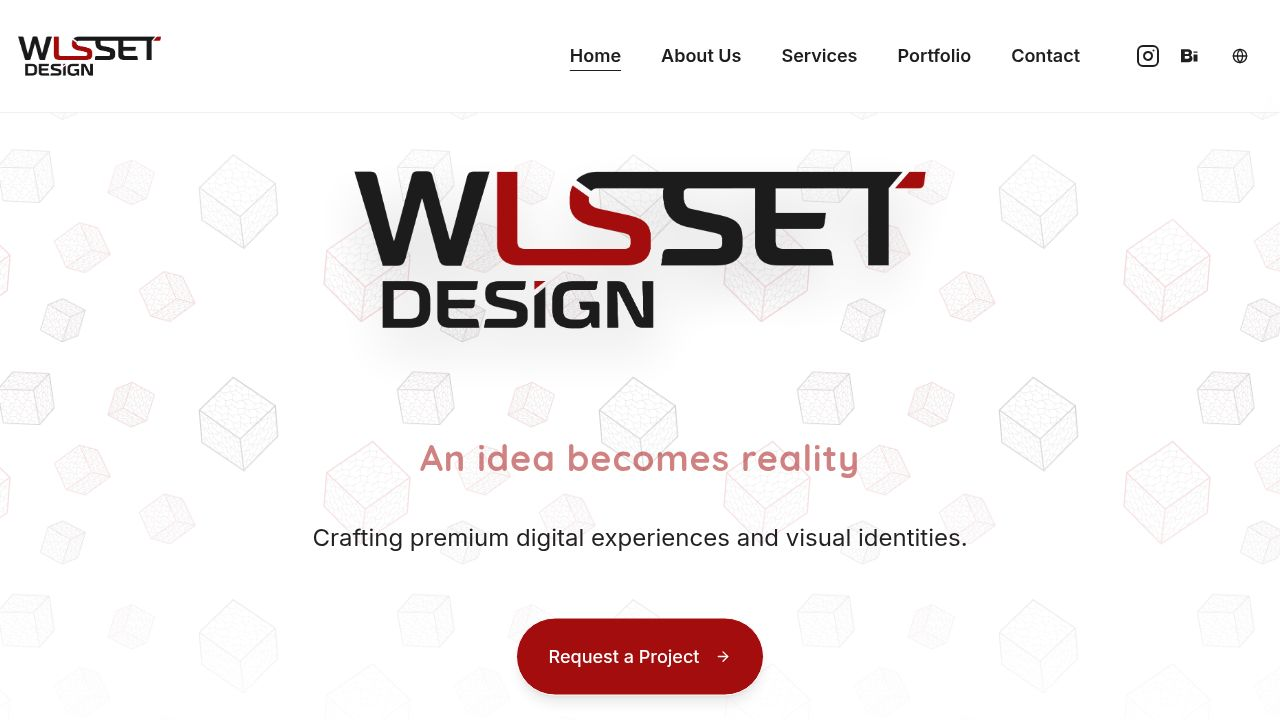
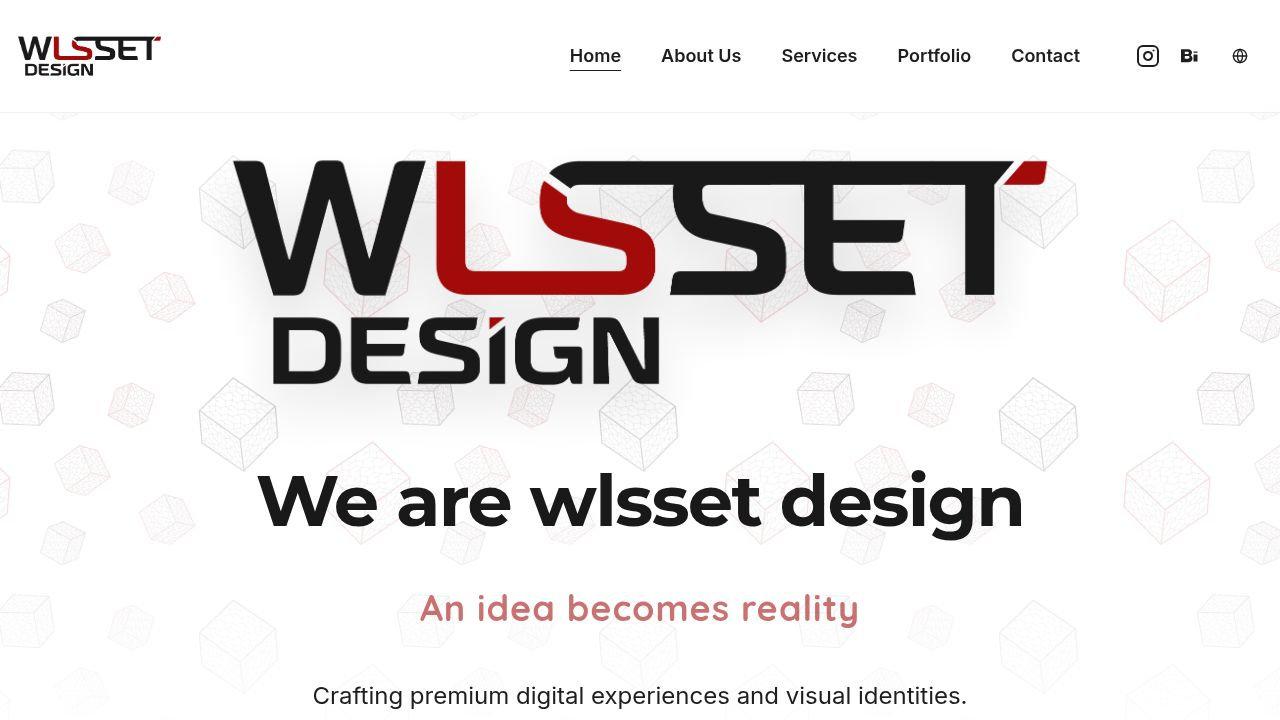
Restored to 'ae337555cfb157df147e13d18683ea3abdfc3750'
Replit-Restored-To: ae337555cfb157df147e13d18683ea3abdfc3750

Changed region(s): [[0.1562, 0.2139, 0.8438, 0.55], [0.1875, 0.6111, 0.8125, 0.7639], [0.25, 0.825, 0.75, 0.9778]]

diff --git a/client/src/App.tsx b/client/src/App.tsx
@@ -1,12 +1,10 @@
-import { Switch, Route, useLocation } from "wouter";
+import { Switch, Route } from "wouter";
 import { queryClient } from "./lib/queryClient";
 import { QueryClientProvider } from "@tanstack/react-query";
 import { Toaster } from "@/components/ui/toaster";
 import { I18nProvider } from "@/lib/i18n";
 import { Layout } from "@/components/layout/Layout";
-import { useScrollNavigate } from "@/hooks/useScrollNavigate";
 import NotFound from "@/pages/not-found";
-import { motion, AnimatePresence } from "framer-motion";
 
 import Home from "@/pages/Home";
 import About from "@/pages/About";
@@ -14,36 +12,17 @@ import Services from "@/pages/Services";
 import Portfolio from "@/pages/Portfolio";
 import Contact from "@/pages/Contact";
 
-function AnimatedRoutes() {
-  const [location] = useLocation();
-  useScrollNavigate();
-
-  return (
-    <AnimatePresence mode="wait">
-      <motion.div
-        key={location}
-        initial={{ opacity: 0 }}
-        animate={{ opacity: 1 }}
-        exit={{ opacity: 0 }}
-        transition={{ duration: 0.4, ease: "easeInOut" }}
-      >
-        <Switch>
-          <Route path="/" component={Home} />
-          <Route path="/about" component={About} />
-          <Route path="/services" component={Services} />
-          <Route path="/portfolio" component={Portfolio} />
-          <Route path="/contact" component={Contact} />
-          <Route component={NotFound} />
-        </Switch>
-      </motion.div>
-    </AnimatePresence>
-  );
-}
-
 function Router() {
   return (
     <Layout>
-      <AnimatedRoutes />
+      <Switch>
+        <Route path="/" component={Home} />
+        <Route path="/about" component={About} />
+        <Route path="/services" component={Services} />
+        <Route path="/portfolio" component={Portfolio} />
+        <Route path="/contact" component={Contact} />
+        <Route component={NotFound} />
+      </Switch>
     </Layout>
   );
 }

diff --git a/client/src/pages/Home.tsx b/client/src/pages/Home.tsx
@@ -9,26 +9,30 @@ export default function Home() {
   const isRTL = language === 'ar';
 
   return (
-    <div className="min-h-screen flex flex-col items-center justify-center text-center px-4 pt-28">
+    <div className="min-h-[calc(100vh-80px)] flex flex-col items-center justify-center text-center px-4">
       <motion.div
         initial={{ opacity: 0, y: 20 }}
         animate={{ opacity: 1, y: 0 }}
         transition={{ duration: 0.8 }}
         className="max-w-4xl mx-auto space-y-8"
       >
-        <div className="w-full flex justify-center mb-12">
-           <img
-              src="/assets/logo.png"
-              alt="wlsset design"
-              className="h-40 md:h-56 object-contain drop-shadow-2xl"
+        <div className="w-full flex justify-center mb-8">
+           <img 
+              src="/assets/logo.png" 
+              alt="wlsset design" 
+              className="h-56 md:h-80 object-contain drop-shadow-2xl"
             />
         </div>
+        
+        <h1 className="text-4xl md:text-7xl font-bold tracking-tight text-[#191919]">
+          {t("hero.intro")}
+        </h1>
 
         <motion.div
           initial={{ opacity: 0 }}
           animate={{ opacity: 1 }}
           transition={{ delay: 0.3, duration: 1.2 }}
-          className="h-20 flex items-center justify-center pt-4"
+          className="h-20 flex items-center justify-center"
         >
           <p 
             className="text-2xl md:text-4xl font-bold text-[#A30A0A] tracking-wide"

diff --git a/client/src/components/layout/Footer.tsx b/client/src/components/layout/Footer.tsx
@@ -5,8 +5,15 @@ export function Footer() {
   
   return (
     <footer className="border-t border-white/10 bg-background py-8 mt-auto z-10 relative">
-      <div className="container mx-auto px-4 flex items-center justify-center">
-        <p className="text-sm text-muted-foreground text-center">
+      <div className="container mx-auto px-4 flex flex-col md:flex-row items-center justify-between gap-4">
+        <div className="flex items-center gap-2">
+           <img 
+              src="/assets/logo.png" 
+              alt="wlsset design" 
+              className="h-16 w-auto opacity-80 transition-transform hover:opacity-100"
+            />
+        </div>
+        <p className="text-sm text-muted-foreground text-center md:text-right">
           {t("footer.rights")}
         </p>
       </div>

diff --git a/client/src/components/layout/Layout.tsx b/client/src/components/layout/Layout.tsx
@@ -9,7 +9,7 @@ export function Layout({ children }: { children: React.ReactNode }) {
     <div className="min-h-screen flex flex-col relative bg-background" dir={direction}>
       {/* Animated Background */}
       <div className="fixed inset-0 z-0 pointer-events-none opacity-20 overflow-hidden">
-        <div
+        <div 
           className="absolute inset-[-100px] animate-fall"
           style={{
             backgroundImage: "url('/assets/pattern.png')",
@@ -22,8 +22,8 @@ export function Layout({ children }: { children: React.ReactNode }) {
       </div>
 
       <Navbar />
-
-      <main className="flex-1 relative z-10">
+      
+      <main className="flex-1 pt-28 relative z-10">
         {children}
       </main>
 

diff --git a/client/src/pages/About.tsx b/client/src/pages/About.tsx
@@ -7,7 +7,7 @@ export default function About() {
   const isRTL = language === "ar";
 
   return (
-    <div className="container mx-auto px-4 py-16 min-h-screen">
+    <div className="container mx-auto px-4 py-16">
       <motion.div
         initial={{ opacity: 0, y: 20 }}
         animate={{ opacity: 1, y: 0 }}

diff --git a/client/src/pages/Contact.tsx b/client/src/pages/Contact.tsx
@@ -80,7 +80,7 @@ export default function Contact() {
   }
 
   return (
-    <div className="container mx-auto px-4 py-16 min-h-screen flex justify-center">
+    <div className="container mx-auto px-4 py-16 flex justify-center">
       <Card className="w-full max-w-2xl bg-card/50 backdrop-blur border-white/5">
         <CardHeader>
           <CardTitle className="text-3xl font-bold text-center text-primary">

diff --git a/client/src/pages/Portfolio.tsx b/client/src/pages/Portfolio.tsx
@@ -79,7 +79,7 @@ export default function Portfolio() {
   }, [filter, searchTerm]);
 
   return (
-    <div className="container mx-auto px-4 py-16 min-h-screen">
+    <div className="container mx-auto px-4 py-16">
       <div className="text-center mb-12">
         <h1 className="text-4xl md:text-5xl font-bold text-primary mb-4">{t("portfolio.title")}</h1>
       </div>

diff --git a/client/src/pages/Services.tsx b/client/src/pages/Services.tsx
@@ -82,7 +82,7 @@ export default function Services() {
   };
 
   return (
-    <div id="services" className="container mx-auto px-4 py-16 min-h-screen">
+    <div id="services" className="container mx-auto px-4 py-16">
       <div className="text-center mb-16">
         <h1 className="text-4xl md:text-5xl font-bold text-primary mb-4">{t("services.title")}</h1>
         <p className="text-muted-foreground max-w-2xl mx-auto">